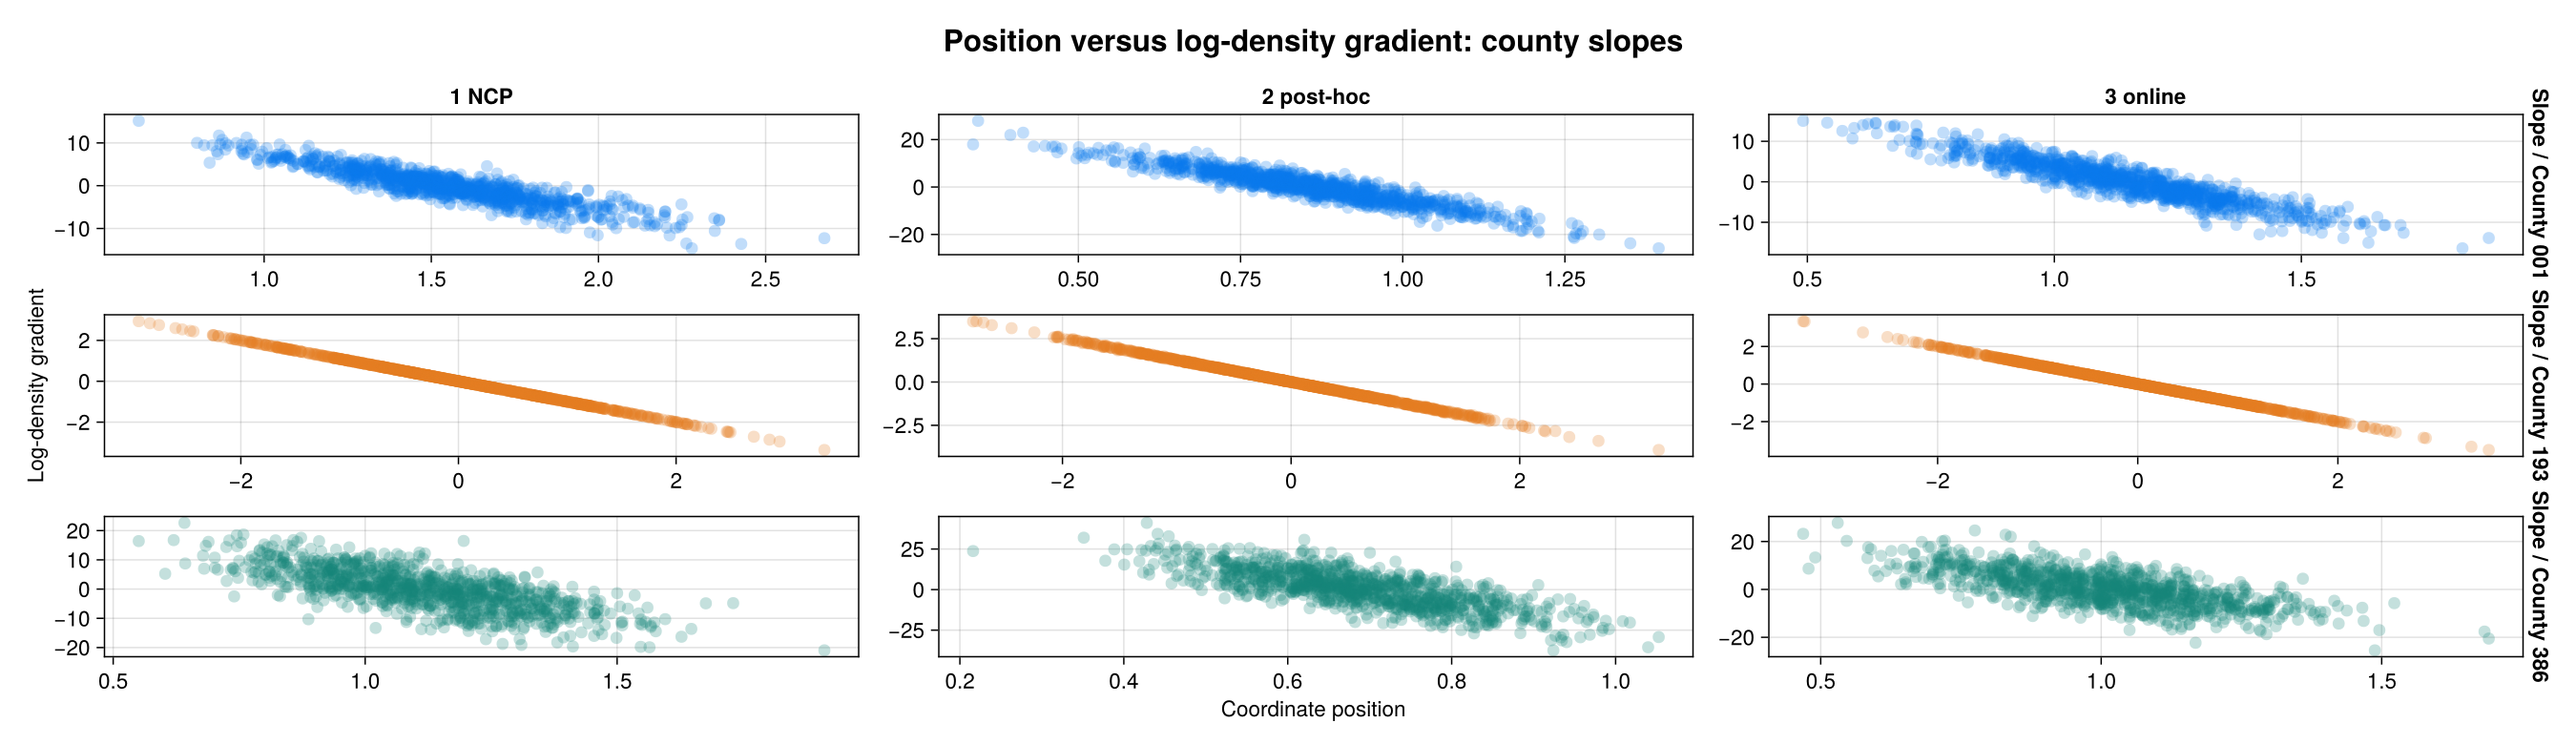
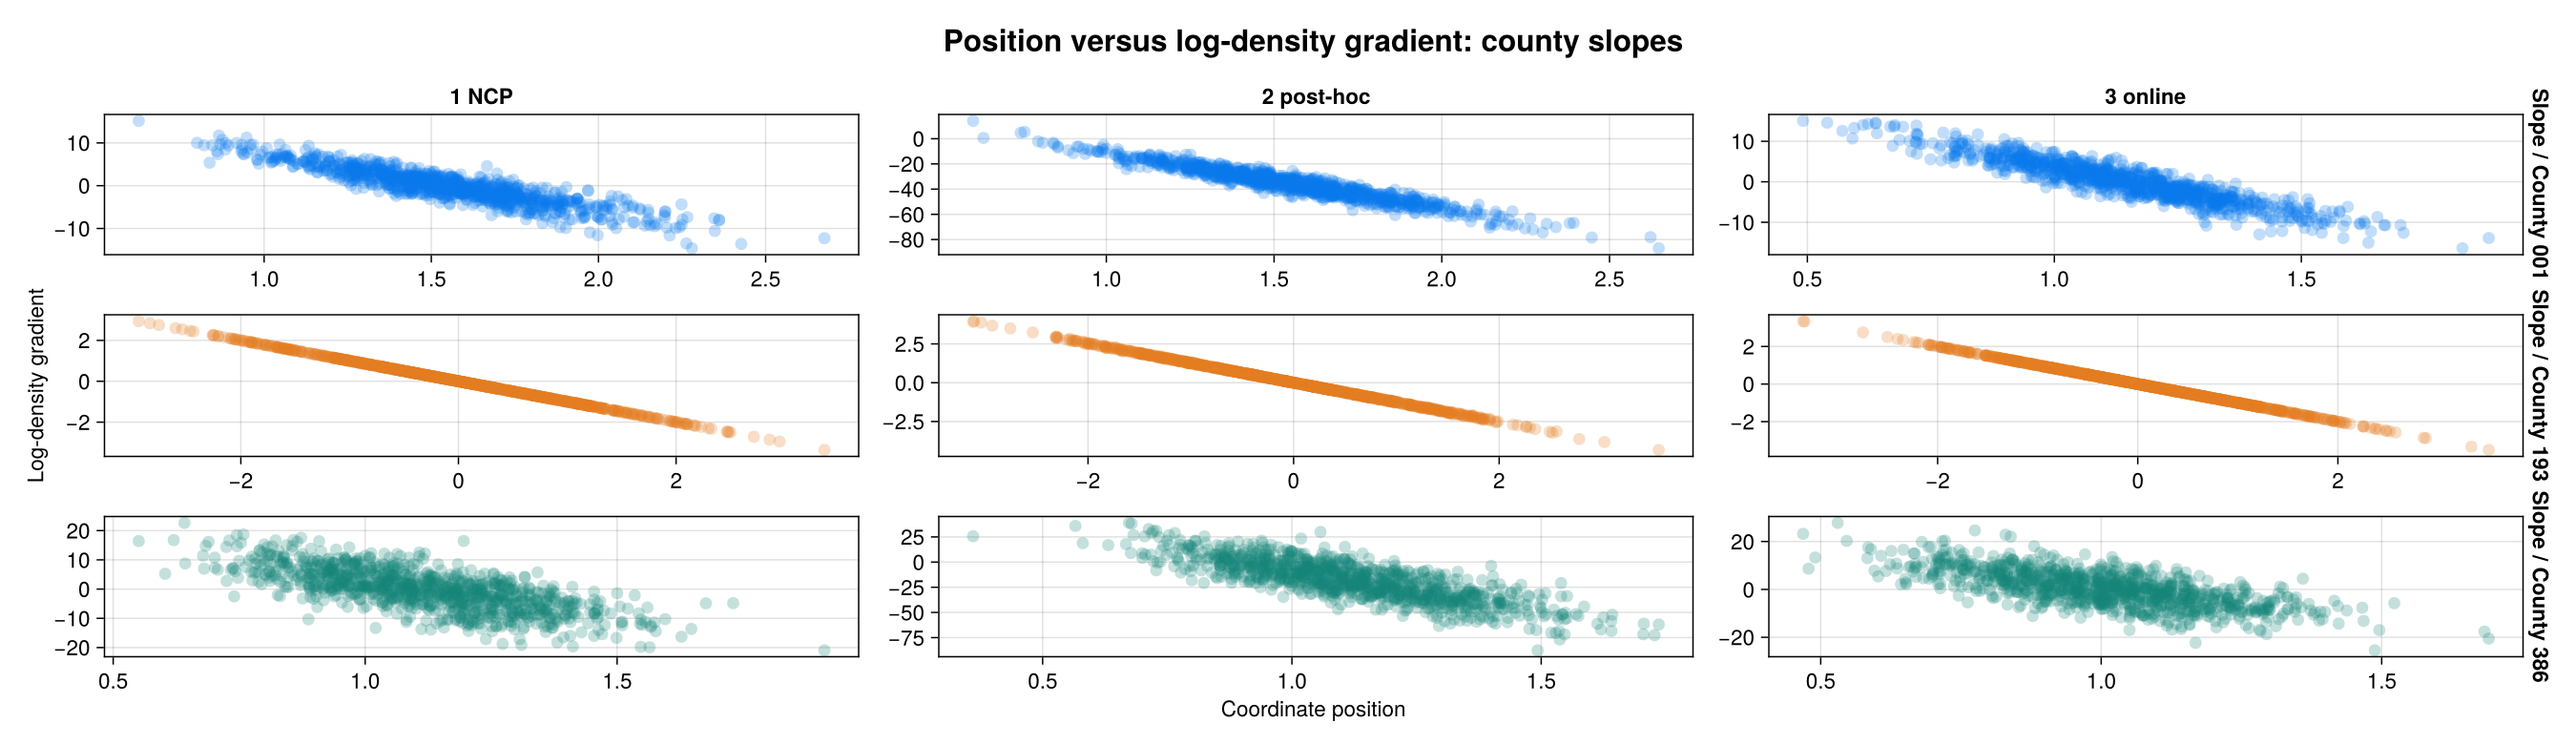
fix(radon): unnormalized physical-target check, model-frame receipts, reconciled prose
verify_physical_target rebuilds the NCP target with unnormalized Stan kernels: the normalized form misses by exactly the dropped constants (-12270.3551469267). Refit pairs, gradients, diagnostics and costs consume mapped model-frame draws; results/ copies synced to the regenerated outputs; page prose states model-frame ESS scope and the refit snippet carries nonlinear_adapt=false.

diff --git a/docs/src/radon-centering.md b/docs/src/radon-centering.md
@@ -203,7 +203,8 @@ the posterior sample retained from the second fit.
 
 ```julia
 refit = WarmupHMC.adaptive_warmup_mcmc(
-    Xoshiro(1), selected_partial_problem; n_draws=10_000, monitor_ess=true)
+    Xoshiro(1), selected_partial_problem; n_draws=10_000, monitor_ess=true,
+    nonlinear_adapt=false)
 ```
 
 ![New partial-coordinate samples versus county scales](assets/adaptive-radon/pair-fresh-posthoc.png)
@@ -223,8 +224,9 @@ distinction; partial centering does not guarantee a clean fit.
 Rank-normalized split R-hat, bulk ESS and tail ESS are computed with
 MCMCDiagnosticTools. Each fit has one chain: split R-hat is a within-chain
 diagnostic, not evidence that independent chains agree. Every ESS minimum is
-taken over all 777 unconstrained model coordinates in that fit's reported
-parameterization.
+taken over all 777 unconstrained model (NCP) coordinates: the pilot and
+online rows natively, and the refit row on the mapped model-frame draws
+(`partial_model_frame.jls`), so every fit's row shares one coordinate frame.
 
 ESS alone does not measure computational cost. The [cost comparison below](#compute-cost-and-ess-per-gradient)
 reports measured runtime and exact total and retained-sampling gradient counts
@@ -336,9 +338,9 @@ against its final checkpoint; it never sums cumulative counters across windows.
   steps, **not** Pathfinder initialization or other setup gradient calls.
 - **Sampling gradients** count only appended transitions corresponding to the
   final retained draws. They exclude adaptation and discarded epochs.
-- Each ESS numerator is the **minimum over all 777 sampled model
-  coordinates**, in that fit's reported parameterization, not a sum of ESS
-  across parameters.
+- Each ESS numerator is the **minimum over all 777 sampled model-frame
+  coordinates** — the refit row uses the mapped model-frame draws, so all
+  three rows share one frame — not a sum of ESS across parameters.
 
 | Fit | Total NUTS gradients | Min bulk ESS / total | Sampling gradients | Min bulk ESS / sampling | Fit time |
 | --- | ---: | ---: | ---: | ---: | ---: |

diff --git a/research/radon_centering/README.md b/research/radon_centering/README.md
@@ -58,7 +58,7 @@ julia --startup-file=no --project=test \
 julia --startup-file=no --project=test \
   research/radon_centering/report_costs.jl \
   /absolute/offline-directory /absolute/online-directory \
-  /absolute/cost-directory
+  /absolute/diagnostics-directory /absolute/cost-directory
 
 bash research/radon_centering/plots/setup_plots_env.sh
 
@@ -128,6 +128,18 @@ ineligible for completion.
   observations and all 10,000 pilot draws.
 - `figures/figure_manifest.tsv`: hashes binding every PNG to its AlgebraOfVega
   specification.
+
+Stored/model/display frames are declared in `prepare_diagnostics.jl` and
+enforced by record flags: the pilot and online matrices are already model
+(NCP) coordinates, while `partial.jls` holds stored source (partial-u)
+coordinates (`nonlinear_adapt=false`) and is mapped once with
+`WarmupHMC.reparametrize!` into `partial_model_frame.jls`. Pairs, gradients,
+diagnostics and costs consume model-frame matrices only; five independent
+checks bind every refit coordinate, gradient, density/Jacobian and physical
+target back to the raw saved source draws. The refit `diagnostics.tsv` row is
+model-frame ESS on the mapped draws (the producer's returned-frame row is
+superseded here and noted in `diagnostics_provenance.toml`, which also
+fail-closes the regeneration checkout against the producer script hash).
 
 Delivered receipts committed under `results/`: the source audit and coordinate
 map, `fit_costs.tsv` (both exact counters, ESS minima and workflow charge),
